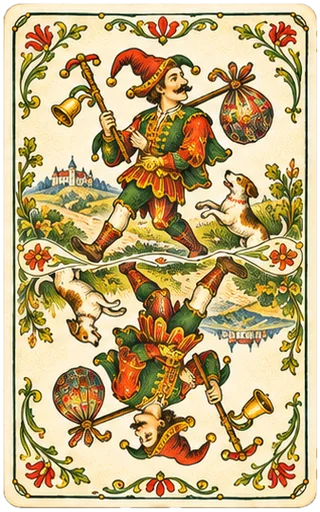
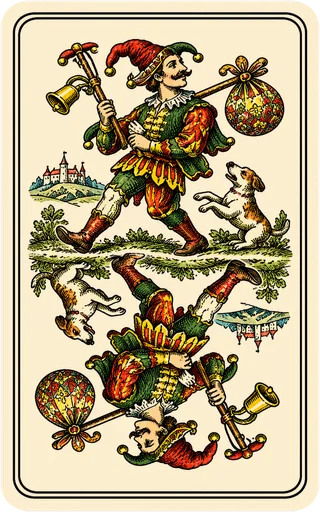
XXI caught at once for the skíz and the XXI; engraved jester skíz card
While the partner is hidden the skíz and the XXI get their effect and the
hat moves straight away; their partners get theirs once the sides are
public. A screen shows the full effect only to the players it is for.

The skíz card is the engraved jester, cut to the deck's shape and paper
by scripts/make-skiz.py.

diff --git a/client/src/components/XxiCatchFx.tsx b/client/src/components/XxiCatchFx.tsx
@@ -29,9 +29,11 @@ export default function XxiCatchFx() {
   const me = useGameStore(selectMyPosition)
   const players = useGameStore((s) => s.gameState?.players)
 
-  const happy = !!caught && (me === null || caught.winners.includes(me))
+  // Only the players the news is for: the partners of a hidden side get theirs later
+  const happy = !!caught && me !== null && caught.winners.includes(me)
+  const sad = !!caught && me !== null && caught.losers.includes(me)
   const bits = useMemo(() => (caught ? pieces(happy ? 90 : 60, caught.id) : []), [caught, happy])
-  if (!caught) return null
+  if (!caught || (!happy && !sad)) return null
 
   const nameAt = (position: number) => players?.find((p) => p.position === position)?.name ?? '?'
   const style = { '--fx-ms': `${XXI_CATCH_MS}ms` } as CSSProperties

diff --git a/client/src/services/socketManager.ts b/client/src/services/socketManager.ts
@@ -238,7 +238,8 @@ class SocketManager {
       const data = unwrap<Omit<XxiCatch, 'id'>>(payload)
       store().celebrateXxiCatch(data)
       const me = selectMyPosition(store())
-      if (me !== null) playSound(data.winners.includes(me) ? 'fanfare' : 'sad')
+      if (me !== null && data.winners.includes(me)) playSound('fanfare')
+      else if (me !== null && data.losers.includes(me)) playSound('sad')
     })
 
     socket.on('game_over', (payload) => {

diff --git a/server/networking/actions.py b/server/networking/actions.py
@@ -558,15 +558,14 @@ class GameService:
 
     async def show_xxi_catch(self, room: Room) -> None:
         """
-        Tell the table the XXI was caught, once, and hand the mayor's hat to its owner.
+        Tell the table the XXI was caught and hand the mayor's hat to its owner.
 
-        Whether a skíz on the XXI is a catch depends on the sides, so while the
-        partner is hidden it waits: until the called card falls or the hand ends.
+        The skíz and the XXI get their effect at once. Their partners get theirs
+        when the sides are public (the called card has fallen or the hand ends):
+        before that it would tell the table who the hidden partner is.
         """
         game_state = room.game_state
         if game_state.xxi_catch_shown or game_state.declarer_position is None:
-            return
-        if not game_state.partner_revealed and game_state.phase not in (GamePhase.SCORING, GamePhase.GAME_END):
             return
         declarer_side = {game_state.declarer_position}
         if game_state.partner_position is not None:
@@ -575,18 +574,33 @@ class GameService:
         if catch is None:
             return
         skiz_by, xxi_by = catch
-        game_state.xxi_catch_shown = True
-        skiz_side = declarer_side if skiz_by in declarer_side else {0, 1, 2, 3} - declarer_side
-        for p in game_state.players:
-            p.polgarmester = p.position == xxi_by
-        room.away_mayor = None
-        await self.broadcast(room, MessageType.XXI_CAUGHT, {
-            "skiz_position": skiz_by,
-            "xxi_position": xxi_by,
-            "winners": sorted(skiz_side),
-            "losers": sorted({0, 1, 2, 3} - skiz_side),
-        })
-        await self.broadcast_room_state(room)
+        sides_public = game_state.partner_revealed or game_state.phase in (GamePhase.SCORING, GamePhase.GAME_END)
+        already = game_state.xxi_catch_partial
+        if not sides_public and already:
+            return
+        if sides_public:
+            skiz_side = declarer_side if skiz_by in declarer_side else {0, 1, 2, 3} - declarer_side
+            winners, losers = skiz_side, {0, 1, 2, 3} - skiz_side
+            if already:
+                # The two of them have had theirs: now their partners
+                winners, losers = winners - {skiz_by}, losers - {xxi_by}
+            game_state.xxi_catch_shown = True
+        else:
+            winners, losers = {skiz_by}, {xxi_by}
+            game_state.xxi_catch_partial = True
+        if not already:
+            for p in game_state.players:
+                p.polgarmester = p.position == xxi_by
+            room.away_mayor = None
+        if winners or losers:
+            await self.broadcast(room, MessageType.XXI_CAUGHT, {
+                "skiz_position": skiz_by,
+                "xxi_position": xxi_by,
+                "winners": sorted(winners),
+                "losers": sorted(losers),
+            })
+        if not already:
+            await self.broadcast_room_state(room)
 
     async def act_throw_in(self, room: Room, player: Player) -> None:
         """A player with all four kings throws the hand in; the same dealer deals again."""

diff --git a/client/scripts/make-skiz.py b/client/scripts/make-skiz.py
@@ -1,0 +1,55 @@
+"""Turn the engraved jester picture into the skíz card, shaped like the rest of the deck.
+
+From the client folder:
+
+    uv run --no-project --with pillow --with numpy python scripts/make-skiz.py <jester.png> public/cards/tarokk-skiz.webp [compare.png]
+
+The card is cut out along its black outer edge (the edge itself goes too, like the
+other cards have none), the corners become transparent, the white paper takes the
+deck's cream tone and the card is brought to the deck's 5:8 shape at 320 px wide.
+"""
+import sys
+from pathlib import Path
+
+import numpy as np
+from PIL import Image, ImageDraw, ImageFilter
+
+SRC, OUT = Path(sys.argv[1]), Path(sys.argv[2])
+COMPARE = Path(sys.argv[3]) if len(sys.argv) > 3 else None
+CARDS = OUT.parent
+WIDTH = 320
+
+src = Image.open(SRC).convert("RGB")
+
+# Background = what the corners reach without crossing the black outer edge
+marker = (255, 0, 255)
+work = src.copy()
+w, h = work.size
+for seed in ((0, 0), (w - 1, 0), (0, h - 1), (w - 1, h - 1)):
+    ImageDraw.floodfill(work, seed, marker, thresh=60)
+inside = Image.fromarray((np.any(np.asarray(work) != marker, axis=2) * 255).astype("uint8"))
+# Step in past the black edge line (about 7 px at this size), then soften like the other cards
+alpha = inside.filter(ImageFilter.MinFilter(19)).filter(ImageFilter.GaussianBlur(1.5))
+box = alpha.getbbox()
+
+# The deck's paper colour: the light pixels of a few other cards
+paper = []
+for name in ("hearts-K", "tarokk-XXI", "clubs-Q"):
+    a = np.asarray(Image.open(CARDS / f"{name}.webp").convert("RGBA")).reshape(-1, 4).astype(float)
+    a = a[(a[:, 3] > 250) & (a[:, :3].min(1) > 200)]
+    paper.append(np.median(a[:, :3], axis=0))
+cream = np.mean(paper, axis=0)
+
+rgb = np.asarray(src).astype(float) * (cream / 255.0)   # white -> cream, the ink stays
+card = Image.fromarray(np.clip(rgb, 0, 255).astype("uint8")).convert("RGBA")
+card.putalpha(alpha)
+card = card.crop(box).resize((WIDTH, WIDTH * 8 // 5), Image.LANCZOS)
+card.save(OUT, quality=84, method=6)
+print("paper", cream.round(), "card", card.size)
+
+if COMPARE:
+    others = [Image.open(CARDS / f"{n}.webp").convert("RGBA") for n in ("tarokk-XXI", "hearts-K")]
+    sheet = Image.new("RGBA", (WIDTH * 3 + 40, WIDTH * 8 // 5 + 20), (22, 101, 52, 255))
+    for i, c in enumerate([card] + others):
+        sheet.alpha_composite(c, (10 + i * (WIDTH + 10), 10))
+    sheet.convert("RGB").save(COMPARE)

diff --git a/server/tests/test_xxi_caught.py b/server/tests/test_xxi_caught.py
@@ -39,16 +39,32 @@ async def test_catch_is_told_once_and_the_xxi_owner_gets_the_hat():
 
 
 @pytest.mark.asyncio
-async def test_hidden_partner_keeps_the_catch_back_until_the_hand_ends():
+async def test_hidden_partner_skiz_and_xxi_at_once_their_partners_when_the_hand_ends():
     service, room, recorder = playing_room(partner_revealed=False)
     room.game_state.trick_history = [trick((1, "skiz"), (0, "XXI"))]
 
     await service.show_xxi_catch(room)
-    assert recorder.of("xxi_caught") == []
+    await service.show_xxi_catch(room)
+    first = [m["data"] for m in recorder.of("xxi_caught")]
+    assert first == [{"skiz_position": 1, "xxi_position": 0, "winners": [1], "losers": [0]}]
+    assert room.game_state.players[0].polgarmester is True
 
     room.game_state.phase = GamePhase.SCORING
     await service.show_xxi_catch(room)
-    assert len(recorder.of("xxi_caught")) == 1
+    await service.show_xxi_catch(room)
+    later = [m["data"] for m in recorder.of("xxi_caught")][1:]
+    assert later == [{"skiz_position": 1, "xxi_position": 0, "winners": [3], "losers": [2]}]
+
+
+@pytest.mark.asyncio
+async def test_declarer_alone_with_hidden_sides_the_others_get_theirs_at_the_end():
+    service, room, recorder = playing_room(partner_revealed=False, partner=None)
+    room.game_state.trick_history = [trick((2, "skiz"), (0, "XXI"))]
+    await service.show_xxi_catch(room)
+    room.game_state.phase = GamePhase.SCORING
+    await service.show_xxi_catch(room)
+    sent = [(m["data"]["winners"], m["data"]["losers"]) for m in recorder.of("xxi_caught")]
+    assert sent == [([2], [0]), ([1, 3], [])]
 
 
 @pytest.mark.asyncio

diff --git a/server/models/game_state.py b/server/models/game_state.py
@@ -198,6 +198,8 @@ class GameState(BaseModel):
 
     # The XXI catch of this hand has been shown to the table
     xxi_catch_shown: bool = False
+    # Shown to the skíz and the XXI only, while the partner is hidden
+    xxi_catch_partial: bool = False
 
     # Hands played at this table
     hand_number: int = 1
@@ -288,6 +290,7 @@ class GameState(BaseModel):
         self.called_card_discarded_by = None
         self.game_contra = False
         self.xxi_catch_shown = False
+        self.xxi_catch_partial = False
         for player in self.players:
             player.ready_next = False
 
@@ -887,6 +890,7 @@ class GameState(BaseModel):
         if include_all_hands:
             result["called_card_discarded_by"] = self.called_card_discarded_by
             result["xxi_catch_shown"] = self.xxi_catch_shown
+            result["xxi_catch_partial"] = self.xxi_catch_partial
 
         # Add winning bid if it exists
         if self.winning_bid:

diff --git a/server/persistence/persistence_manager.py b/server/persistence/persistence_manager.py
@@ -300,6 +300,7 @@ class PersistenceManager:
         game_state.called_card_discarded_by = game_state_dict.get('called_card_discarded_by')
         game_state.game_contra = game_state_dict.get('game_contra', False)
         game_state.xxi_catch_shown = game_state_dict.get('xxi_catch_shown', False)
+        game_state.xxi_catch_partial = game_state_dict.get('xxi_catch_partial', False)
         game_state.hand_number = game_state_dict.get('hand_number', 1)
 
         logger.debug("game_state_basic_fields_set",
